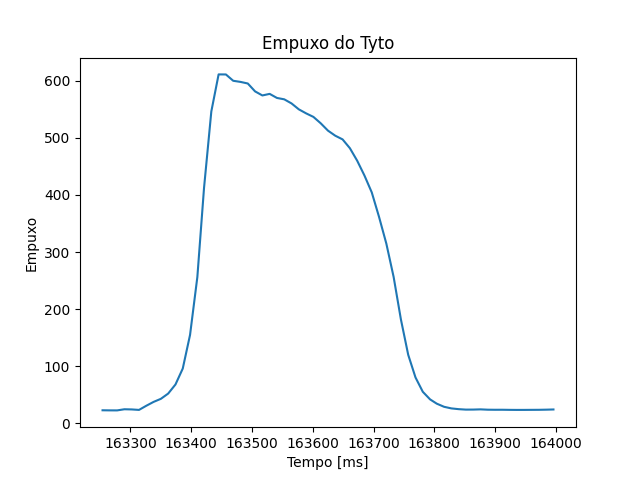
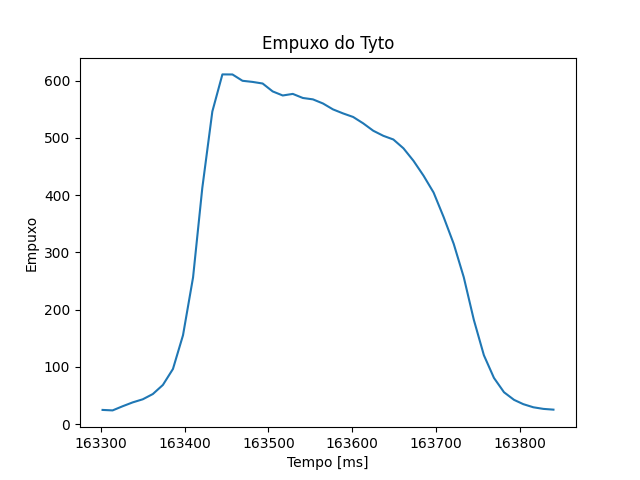
.

diff --git a/Analise_dados/tarefa7/tarefa7.py b/Analise_dados/tarefa7/tarefa7.py
@@ -8,8 +8,8 @@ def normalizar(yraw):
 dados = np.loadtxt('teste-tyto.csv')
 
 # Intervalo da queima
-t_ini = 163250
-t_fim = 164000
+t_ini = 163300
+t_fim = 163850
 
 x = dados[:, 0]
 y = normalizar(dados[:, 1])

diff --git a/Analise_dados/streamlit/app.py b/Analise_dados/streamlit/app.py
@@ -1,0 +1,3 @@
+import streamlit as st
+
+st.write('Hello World')
